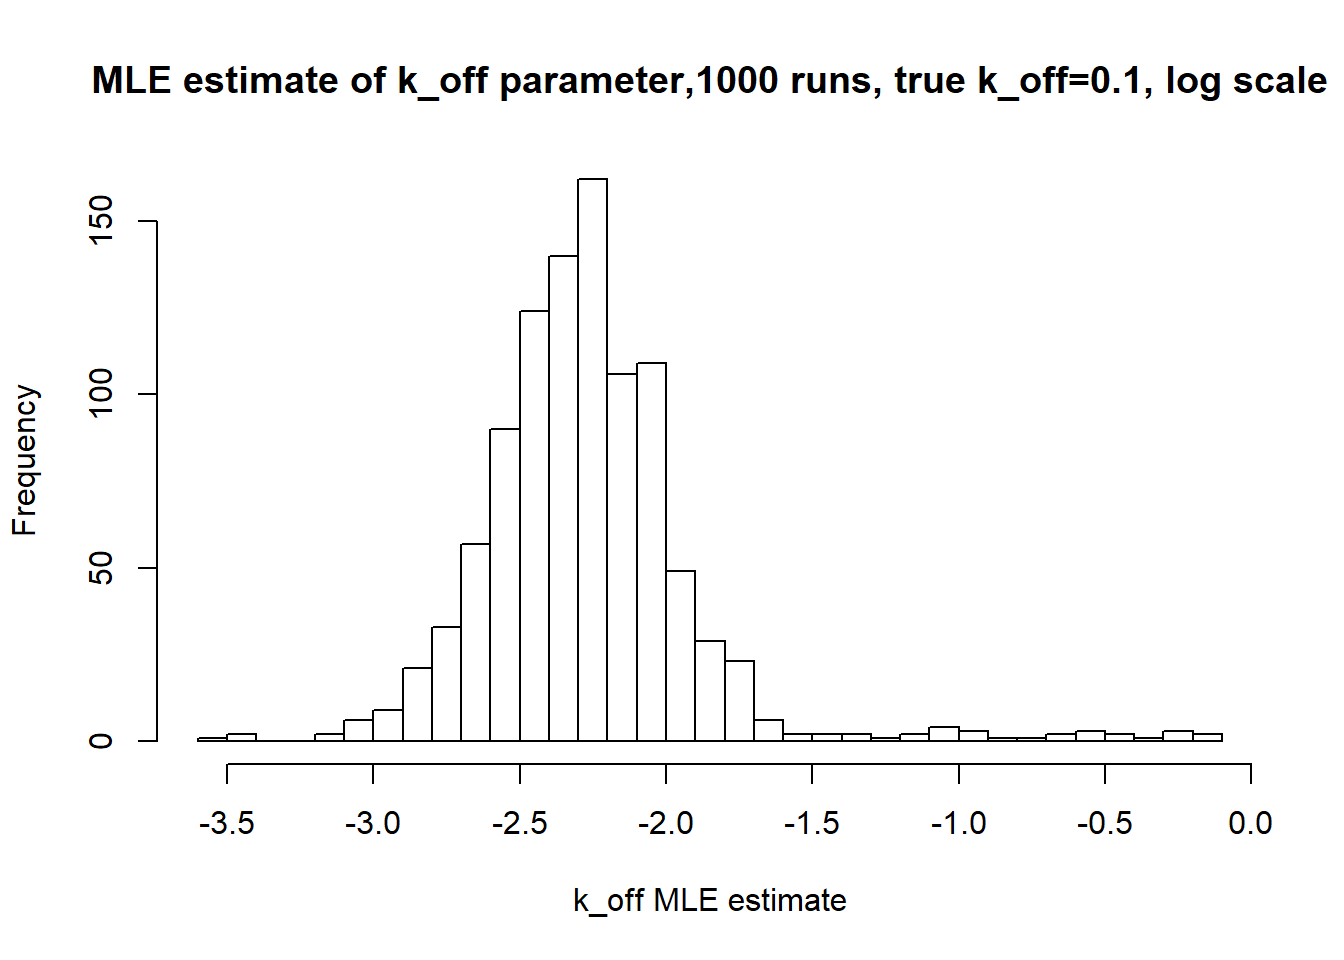
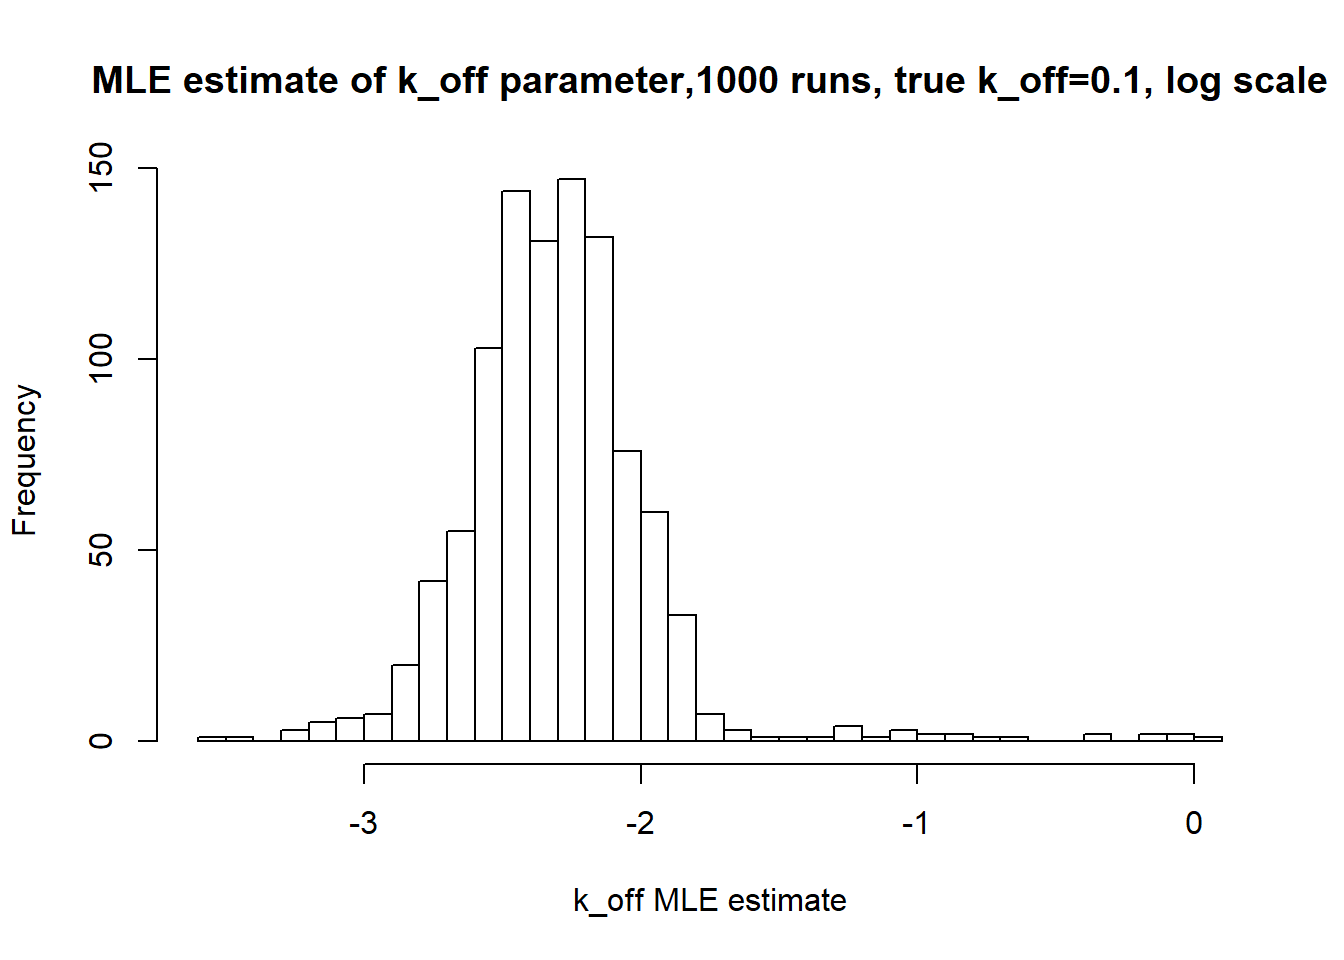
Build site.

diff --git a/docs/MLE_estimation_with_noise_parameter.html b/docs/MLE_estimation_with_noise_parameter.html
@@ -344,7 +344,7 @@ div.section {
 <div class="tab-content">
 <div id="summary" class="tab-pane fade in active">
 <p>
-<strong>Last updated:</strong> 2020-01-31
+<strong>Last updated:</strong> 2020-02-03
 </p>
 <p>
 <strong>Checks:</strong> <span class="glyphicon glyphicon-ok text-success" aria-hidden="true"></span> 6 <span class="glyphicon glyphicon-exclamation-sign text-danger" aria-hidden="true"></span> 1
@@ -359,7 +359,7 @@ This reproducible <a href="http://rmarkdown.rstudio.com">R Markdown</a> analysis
 <hr>
 </div>
 <div id="checks" class="tab-pane fade">
-<div id="workflowr-checks" class="panel-group">
+<div class="panel-group" id="workflowr-checks">
 <div class="panel panel-default">
 <div class="panel-heading">
 <p class="panel-title">
@@ -467,10 +467,10 @@ analysis/MLE_with_si.py
 <div class="panel panel-default">
 <div class="panel-heading">
 <p class="panel-title">
-<a data-toggle="collapse" data-parent="#workflowr-checks" href="#strongRepositoryversionstrongahrefhttpsgithubcomMargareth2407ThesissingleRNAtree0daca3ffbbdb4be810e63159e765dbd659f5568btargetblank0daca3fa"> <span class="glyphicon glyphicon-ok text-success" aria-hidden="true"></span> <strong>Repository version:</strong> <a href="https://github.com/Margareth2407/Thesis_single_RNA/tree/0daca3ffbbdb4be810e63159e765dbd659f5568b" target="_blank">0daca3f</a> </a>
+<a data-toggle="collapse" data-parent="#workflowr-checks" href="#strongRepositoryversionstrongahrefhttpsgithubcomMargareth2407ThesissingleRNAtreeed3057fcaa173b54f21346d65b59f74407daa1a7targetblanked3057fa"> <span class="glyphicon glyphicon-ok text-success" aria-hidden="true"></span> <strong>Repository version:</strong> <a href="https://github.com/Margareth2407/Thesis_single_RNA/tree/ed3057fcaa173b54f21346d65b59f74407daa1a7" target="_blank">ed3057f</a> </a>
 </p>
 </div>
[2 lines of base64/hex data omitted]
 <div class="panel-body">
 <p>
 Great! You are using Git for version control. Tracking code development and connecting the code version to the results is critical for reproducibility. The version displayed above was the version of the Git repository at the time these results were generated. <br><br> Note that you need to be careful to ensure that all relevant files for the analysis have been committed to Git prior to generating the results (you can use <code>wflow_publish</code> or <code>wflow_git_commit</code>). workflowr only checks the R Markdown file, but you know if there are other scripts or data files that it depends on. Below is the status of the Git repository when the results were generated:
@@ -482,17 +482,8 @@ Ignored files:
     Ignored:    analysis/.RData
     Ignored:    analysis/.Rhistory
 
-Untracked files:
-    Untracked:  analysis/MLE_variability_by_sample_size.Rmd
-    Untracked:  analysis/MLE_with_si.py
-    Untracked:  analysis/Test.Rmd
-
 Unstaged changes:
     Modified:   Data_sim.Rmd
-    Deleted:    analysis/Data_sim.Rmd
-    Modified:   analysis/MLE.py
-    Deleted:    analysis/MLE_bootstrap_N_variability.Rmd
-    Modified:   analysis/Real_data_filter.Rmd
 
 </code></pre>
 <p>
@@ -526,52 +517,48 @@ n_cells=as.integer(100)
 x=generate_data(k_on,k_off,kr,n_cells)</code></pre>
 <pre class="r"><code>est=MaximumLikelihood(x)
 est</code></pre>
-<pre><code>[1]   0.09301532   0.14482931 100.24388427</code></pre>
+<pre><code>[1]   0.09990282   0.10738519 101.01343576</code></pre>
 <p>Then, we implement MLE calculation with <span class="math inline">\(s_i\)</span> parameter included.</p>
 <pre class="r"><code>source_python(&quot;C:/Users/Moonkin/Documents/GitHub/Thesis_single_RNA/analysis/MLE_with_si.py&quot;)</code></pre>
 <p>With <span class="math inline">\(s_i\)</span>=1 we should receive the same estimators as without <span class="math inline">\(s_i\)</span></p>
 <pre class="r"><code>si=matrix(1, nrow = 100, ncol = 1)
 est=MaximumLikelihood_with_si(x,si)
 est</code></pre>
-<pre><code>[1]   0.09301532   0.14482931 100.24388427</code></pre>
+<pre><code>[1]   0.09990282   0.10738519 101.01343576</code></pre>
 <p>With <span class="math inline">\(s_i\)</span>=2, our <span class="math inline">\(k_r\)</span> estimate drops twice, while <span class="math inline">\(k_{on}\)</span> and <span class="math inline">\(k_{off}\)</span> are not really affected by this change.</p>
 <pre class="r"><code>si=matrix(2, nrow = 100, ncol = 1)
 est=MaximumLikelihood_with_si(x,si)
 est</code></pre>
-<pre><code>[1]  0.09325021  0.14553311 50.17748185</code></pre>
+<pre><code>[1]  0.09990106  0.10738154 50.50693370</code></pre>
 <p>We also try using different <span class="math inline">\(s_i\)</span> values as this is what we will see in real data:</p>
 <pre class="r"><code>si=matrix(1:5, nrow = 100, ncol = 1)
 est=MaximumLikelihood_with_si(x,si)
 est</code></pre>
-<pre><code>[1]   0.1609895   0.9242359 123.9472469</code></pre>
+<pre><code>[1]   0.2155753   1.0121720 109.6003544</code></pre>
 </div>
 <div id="multiple-dataset-results" class="section level1">
 <h1>Multiple dataset results</h1>
 <p>Now we will also test model with <span class="math inline">\(s_i\)</span> vs the model without it:</p>
 <p>Initial MLE calculations:</p>
 <p><img src="figure/MLE_estimation_with_noise_parameter.Rmd/unnamed-chunk-8-1.png" width="672" style="display: block; margin: auto;" /></p>
-<pre><code>[1] &quot;true k_on is 0.1; k_on mean 0.102 k_on median 0.1&quot;</code></pre>
+<pre><code>[1] &quot;true k_on is 0.1; k_on mean 0.102 k_on median 0.101&quot;</code></pre>
 <p><img src="figure/MLE_estimation_with_noise_parameter.Rmd/unnamed-chunk-8-2.png" width="672" style="display: block; margin: auto;" /></p>
-<pre><code>[1] &quot;true k_off is 0.1; k_off mean 0.103 k_off median 0.101&quot;</code></pre>
+<pre><code>[1] &quot;true k_off is 0.1; k_off mean 0.103 k_off median 0.1&quot;</code></pre>
 <p><img src="figure/MLE_estimation_with_noise_parameter.Rmd/unnamed-chunk-8-3.png" width="672" style="display: block; margin: auto;" /></p>
-<pre><code>[1] &quot;true k_r is 100; k_r mean 100.04 k_r median 100.018&quot;</code></pre>
+<pre><code>[1] &quot;true k_r is 100; k_r mean 100.005 k_r median 99.907&quot;</code></pre>
 <p>MLE calculations with <span class="math inline">\(s_i\)</span>=2 for all cells:</p>
 <p><img src="figure/MLE_estimation_with_noise_parameter.Rmd/unnamed-chunk-9-1.png" width="672" style="display: block; margin: auto;" /></p>
-<pre><code>[1] &quot;true k_on is 0.1; k_on mean 0.103 k_on median 0.099&quot;</code></pre>
+<pre><code>[1] &quot;true k_on is 0.1; k_on mean 0.102 k_on median 0.099&quot;</code></pre>
 <p><img src="figure/MLE_estimation_with_noise_parameter.Rmd/unnamed-chunk-9-2.png" width="672" style="display: block; margin: auto;" /></p>
-<pre><code>[1] &quot;true k_off is 0.1; k_off mean 0.114 k_off median 0.101&quot;</code></pre>
+<pre><code>[1] &quot;true k_off is 0.1; k_off mean 0.11 k_off median 0.099&quot;</code></pre>
 <p><img src="figure/MLE_estimation_with_noise_parameter.Rmd/unnamed-chunk-9-3.png" width="672" style="display: block; margin: auto;" /></p>
-<pre><code>[1] &quot;true k_r is 100; k_r mean 50.283 k_r median 50.012&quot;</code></pre>
+<pre><code>[1] &quot;true k_r is 100; k_r mean 50.32 k_r median 49.999&quot;</code></pre>
 </div>
 <div id="real-data" class="section level1">
 <h1>Real data</h1>
 <p>We also estimate MLE with size parameter on the real data.</p>
 <p>We use top gene with smallest p_beta parameter and obtain <span class="math inline">\(s_i\)</span> for each cell from scqtl-annotation.txt.gz, mol_hs field</p>
 <p>The MLE estimation without noise can be found here <a href="https://margareth2407.github.io/Thesis_single_RNA/Real_data_filter.html" class="uri">https://margareth2407.github.io/Thesis_single_RNA/Real_data_filter.html</a></p>
-<pre class="r"><code>mol_hs &lt;-read.table(&quot;D:/Uchicago/Thesis/Real_data/scqtl-annotation.txt&quot;,header = TRUE, sep = &quot;&quot;, dec = &quot;.&quot;,row.names=NULL)</code></pre>
-<pre class="r"><code>full_cell_info&lt;-data.frame(paste(mol_hs$chip_id,&quot;.&quot;,mol_hs$row.names,&quot;.&quot;,mol_hs$experiment,sep = &quot;&quot;),mol_hs$mol_hs)
-colnames(full_cell_info)&lt;-c(&quot;id&quot;, &quot;mol_hs&quot;)</code></pre>
-<pre class="r"><code>library(dplyr)</code></pre>
 <pre><code>Warning: package &#39;dplyr&#39; was built under R version 3.5.3</code></pre>
 <pre><code>
 Attaching package: &#39;dplyr&#39;</code></pre>
@@ -581,18 +568,8 @@ Attaching package: &#39;dplyr&#39;</code></pre>
 <pre><code>The following objects are masked from &#39;package:base&#39;:
 
     intersect, setdiff, setequal, union</code></pre>
-<pre class="r"><code>data&lt;-read.table(&quot;D:/Uchicago/Thesis/Real_data/scqtl-counts/scqtl-counts.txt&quot;, header = TRUE, sep = &quot;&quot;, dec = &quot;.&quot;)
-combined_filter&lt;-read.table(&quot;D:/Uchicago/Thesis/Real_data/combined_filter.txt&quot;, header = FALSE, sep = &quot;,&quot;, dec = &quot;.&quot;)
-combined_filter[,1]&lt;-combined_filter[,1]+2 #adjusting index from python to R
-clean_data&lt;-data.frame(data[,1],data[,combined_filter[,1]])
-colnames(clean_data)[1]&lt;-&quot;gene&quot;
-gene_filter&lt;-read.table(&quot;D:/Uchicago/Thesis/Real_data/mean/mean.txt&quot;, header = TRUE, sep = &quot;&quot;, dec = &quot;.&quot;,row.names=NULL)
-gene_filter&lt;-gene_filter[,c(&quot;gene&quot;,&quot;p_beta&quot;)]
-clean_data&lt;- left_join(clean_data, gene_filter, by = &quot;gene&quot;)</code></pre>
 <pre><code>Warning: Column `gene` joining factors with different levels, coercing to
 character vector</code></pre>
-<pre class="r"><code>clean_data &lt;- clean_data[order(clean_data$p_beta),]
-clean_data &lt;- clean_data[,1:(ncol(clean_data)-1)]</code></pre>
 <pre class="r"><code>estimate_MLE_one_gene_with_si&lt;-function(full_data,full_si){
   data_ind&lt;-substr(colnames(full_data),0,7)
   data_ind&lt;-data_ind[2:length(data_ind)]
@@ -616,23 +593,36 @@ for (i in unique(data_ind)){
 return(list(est,info))
   }</code></pre>
 <pre class="r"><code>options(warn=-1)
-
 top_gene&lt;-clean_data[1,]
 results=estimate_MLE_one_gene_with_si(top_gene,full_cell_info)
 est=results[[1]]
-
+info=results[[2]]
 hist(log(est[,1]),breaks=30, main=&quot;MLE estimate of k_on parameter,1000 runs, true k_on=0.1, log scale&quot;, xlab=&quot;k_on MLE estimate&quot;)</code></pre>
-<p><img src="figure/MLE_estimation_with_noise_parameter.Rmd/unnamed-chunk-14-1.png" width="672" style="display: block; margin: auto;" /></p>
-<pre class="r"><code>paste(&quot;true k_on is 0.1;&quot;,&quot;k_on mean&quot;,round(mean(est[,1],na.rm=TRUE),3),&quot;k_on median&quot;,round(median(est[,1],na.rm=TRUE),3))</code></pre>
-<pre><code>[1] &quot;true k_on is 0.1; k_on mean 2.985 k_on median 2.485&quot;</code></pre>
+<p><img src="figure/MLE_estimation_with_noise_parameter.Rmd/unnamed-chunk-13-1.png" width="672" style="display: block; margin: auto;" /></p>
 <pre class="r"><code>hist(log(est[,2]),breaks=30, main=&quot;MLE estimate of k_off parameter,1000 runs, true k_off=0.1, log scale&quot;, xlab=&quot;k_off MLE estimate&quot;)</code></pre>
-<p><img src="figure/MLE_estimation_with_noise_parameter.Rmd/unnamed-chunk-14-2.png" width="672" style="display: block; margin: auto;" /></p>
-<pre class="r"><code>paste(&quot;true k_off is 0.1;&quot;,&quot;k_off mean&quot;,round(mean(est[,2],na.rm=TRUE),3),&quot;k_off median&quot;,round(median(est[,2],na.rm=TRUE),3))</code></pre>
-<pre><code>[1] &quot;true k_off is 0.1; k_off mean 5.337 k_off median 3.039&quot;</code></pre>
+<p><img src="figure/MLE_estimation_with_noise_parameter.Rmd/unnamed-chunk-13-2.png" width="672" style="display: block; margin: auto;" /></p>
 <pre class="r"><code>hist(log(est[,3]),breaks=30, main=&quot;MLE estimate of k_r parameter,1000 runs,true k_r=100, log scale&quot;, xlab=&quot;k_r MLE estimate&quot;)</code></pre>
-<p><img src="figure/MLE_estimation_with_noise_parameter.Rmd/unnamed-chunk-14-3.png" width="672" style="display: block; margin: auto;" /></p>
-<pre class="r"><code>paste(&quot;true k_r is 100;&quot;,&quot;k_r mean&quot;,round(mean(est[,3],na.rm=TRUE),3),&quot;k_r median&quot;,round(median(est[,3],na.rm=TRUE),3))</code></pre>
-<pre><code>[1] &quot;true k_r is 100; k_r mean 121.474 k_r median 109.95&quot;</code></pre>
+<p><img src="figure/MLE_estimation_with_noise_parameter.Rmd/unnamed-chunk-13-3.png" width="672" style="display: block; margin: auto;" /></p>
+<div id="distribution-for-one-individuals" class="section level2">
+<h2>Distribution for one individuals</h2>
+<pre class="r"><code>par(mfrow=c(1,3))
+na18501=top_gene[ , grepl(&quot;NA18501&quot;, names(top_gene))]
+hist(data.matrix(na18501), xlab=&quot;Number of molecules&quot;, main=&quot;Distribution of protein expression&quot;) #Real data
+beta=rbeta(200,est[24,1],est[24,2])
+hist(beta, main=&quot;Beta distribution&quot;)
+poisson=rpois(200,beta*est[24,3])
+hist(poisson, xlab=&quot;Number of molecules&quot;,main=&quot;Poisson distribution&quot;)</code></pre>
+<p><img src="figure/MLE_estimation_with_noise_parameter.Rmd/unnamed-chunk-14-1.png" width="672" style="display: block; margin: auto;" /></p>
+</div>
+<div id="boxplots-by-genotype" class="section level2">
+<h2>Boxplots by genotype</h2>
+<p>As in previous vignette we compare genotype to the estimated <span class="math inline">\(k_{on}\)</span>, <span class="math inline">\(k_{off}\)</span> and <span class="math inline">\(k_{r}\)</span> parameters.</p>
+<p><img src="figure/MLE_estimation_with_noise_parameter.Rmd/unnamed-chunk-16-1.png" width="672" style="display: block; margin: auto;" /></p>
+</div>
+</div>
+<div id="regression" class="section level1">
+<h1>Regression</h1>
+<p><img src="figure/MLE_estimation_with_noise_parameter.Rmd/unnamed-chunk-17-1.png" width="672" style="display: block; margin: auto;" /></p>
 <br>
 <p>
 <button type="button" class="btn btn-default btn-workflowr btn-workflowr-sessioninfo" data-toggle="collapse" data-target="#workflowr-sessioninfo" style="display: block;">
